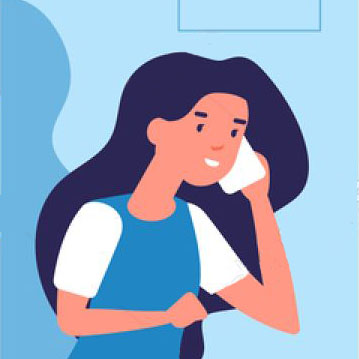
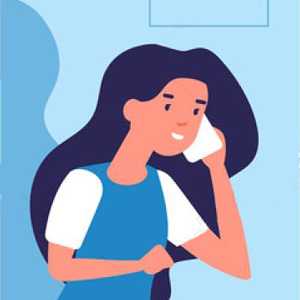
fix: images size

diff --git a/rslang/src/app/common/games.ts b/rslang/src/app/common/games.ts
@@ -5,14 +5,14 @@ export const games: Games = {
     name: 'SpeakIt',
     link: 'speakit',
     description: 'Learn how to pronounce',
-    background: 'assets/images/speakit.png',
+    background: 'assets/images/speakit.jpg',
   },
   puzzle: {
     name: 'English Puzzle',
     link: 'english-puzzle',
     description: 'Build an app from the available words',
     background:
-      'assets/images/english-puzzle.png',
+      'assets/images/english-puzzle.jpg',
   },
   savannah: {
     name: 'Savannah',
@@ -31,7 +31,7 @@ export const games: Games = {
     name: 'Sprint',
     link: 'sprint',
     description: 'Determine whether the word is translated correctly.',
-    background: 'assets/images/sprint.png',
+    background: 'assets/images/sprint.jpg',
   },
   ownGame: {
     name: 'Own Game',
